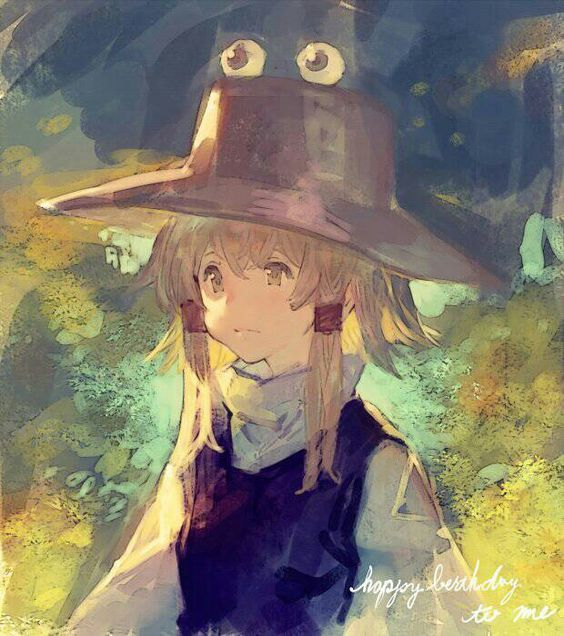
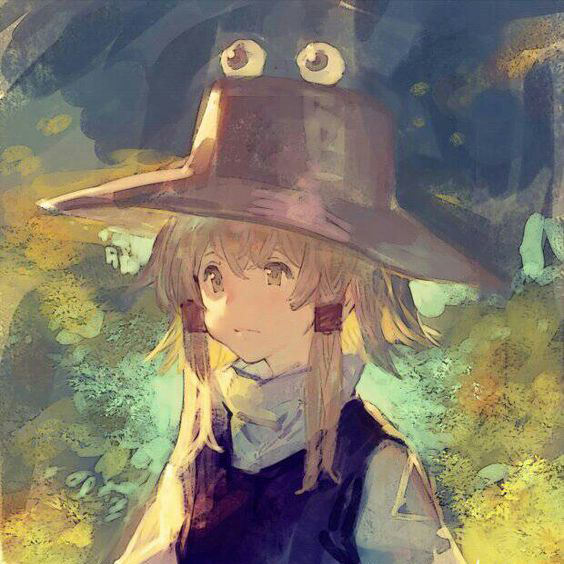
update the jpg

diff --git a/pages/blog/[slug].tsx b/pages/blog/[slug].tsx
@@ -132,7 +132,7 @@ export default function BlogPost({ post }: BlogPostProps) {
 					title: post.frontmatter.title,
 					images: [
 						{
-							url: post.frontmatter.banner ?? '/banner.png',
+							url: post.frontmatter.banner ?? '/banner.jpg',
 							alt: post.frontmatter.description ?? post.frontmatter.title,
 							width: 1280,
 							height: 720,

diff --git a/lib/feed.tsx b/lib/feed.tsx
@@ -17,7 +17,7 @@ const feedOptions: FeedOptions = {
 	description: '虹色的世界',
 	id: SITE_URL,
 	link: SITE_URL,
-	image: `${SITE_URL}/banner.png`,
+	image: `${SITE_URL}/banner.jpg`,
 	favicon: `${SITE_URL}/favicon.ico`,
 	language: 'zh-cn',
 	copyright: `Copyright © ${format(new Date(), 'yyyy')} Suwako`,
